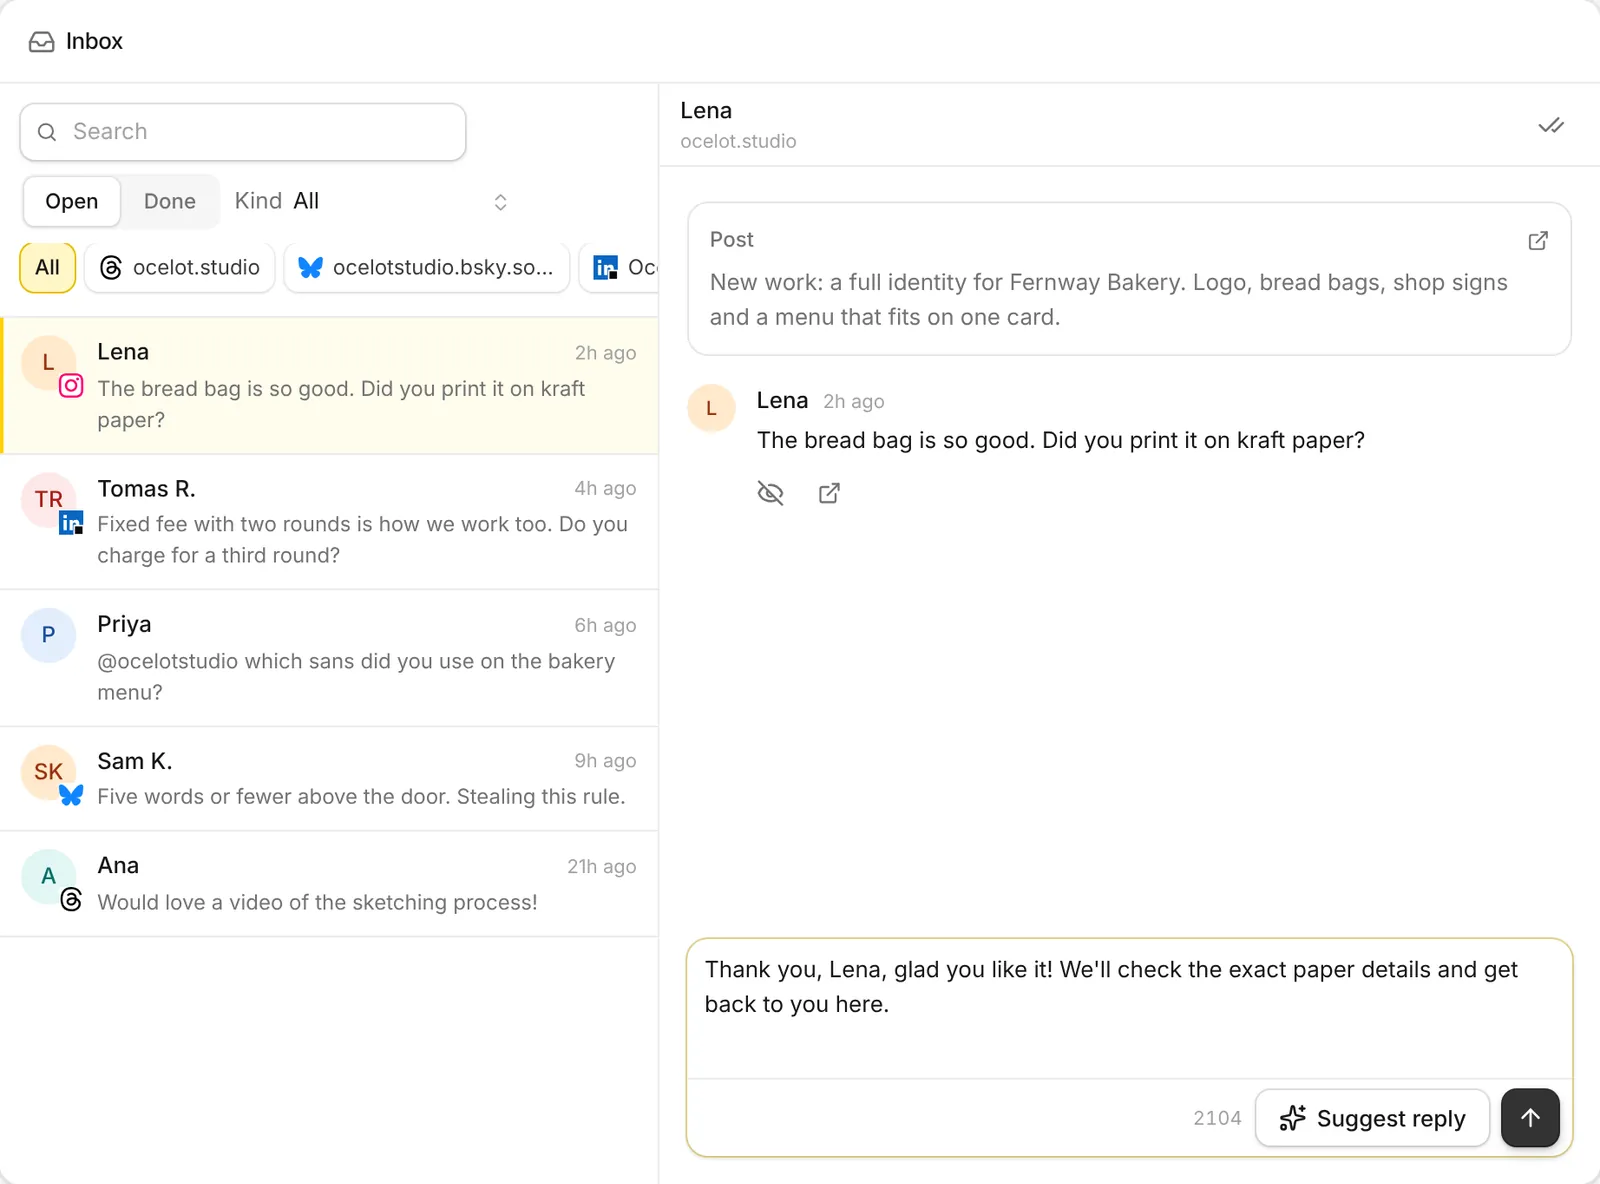
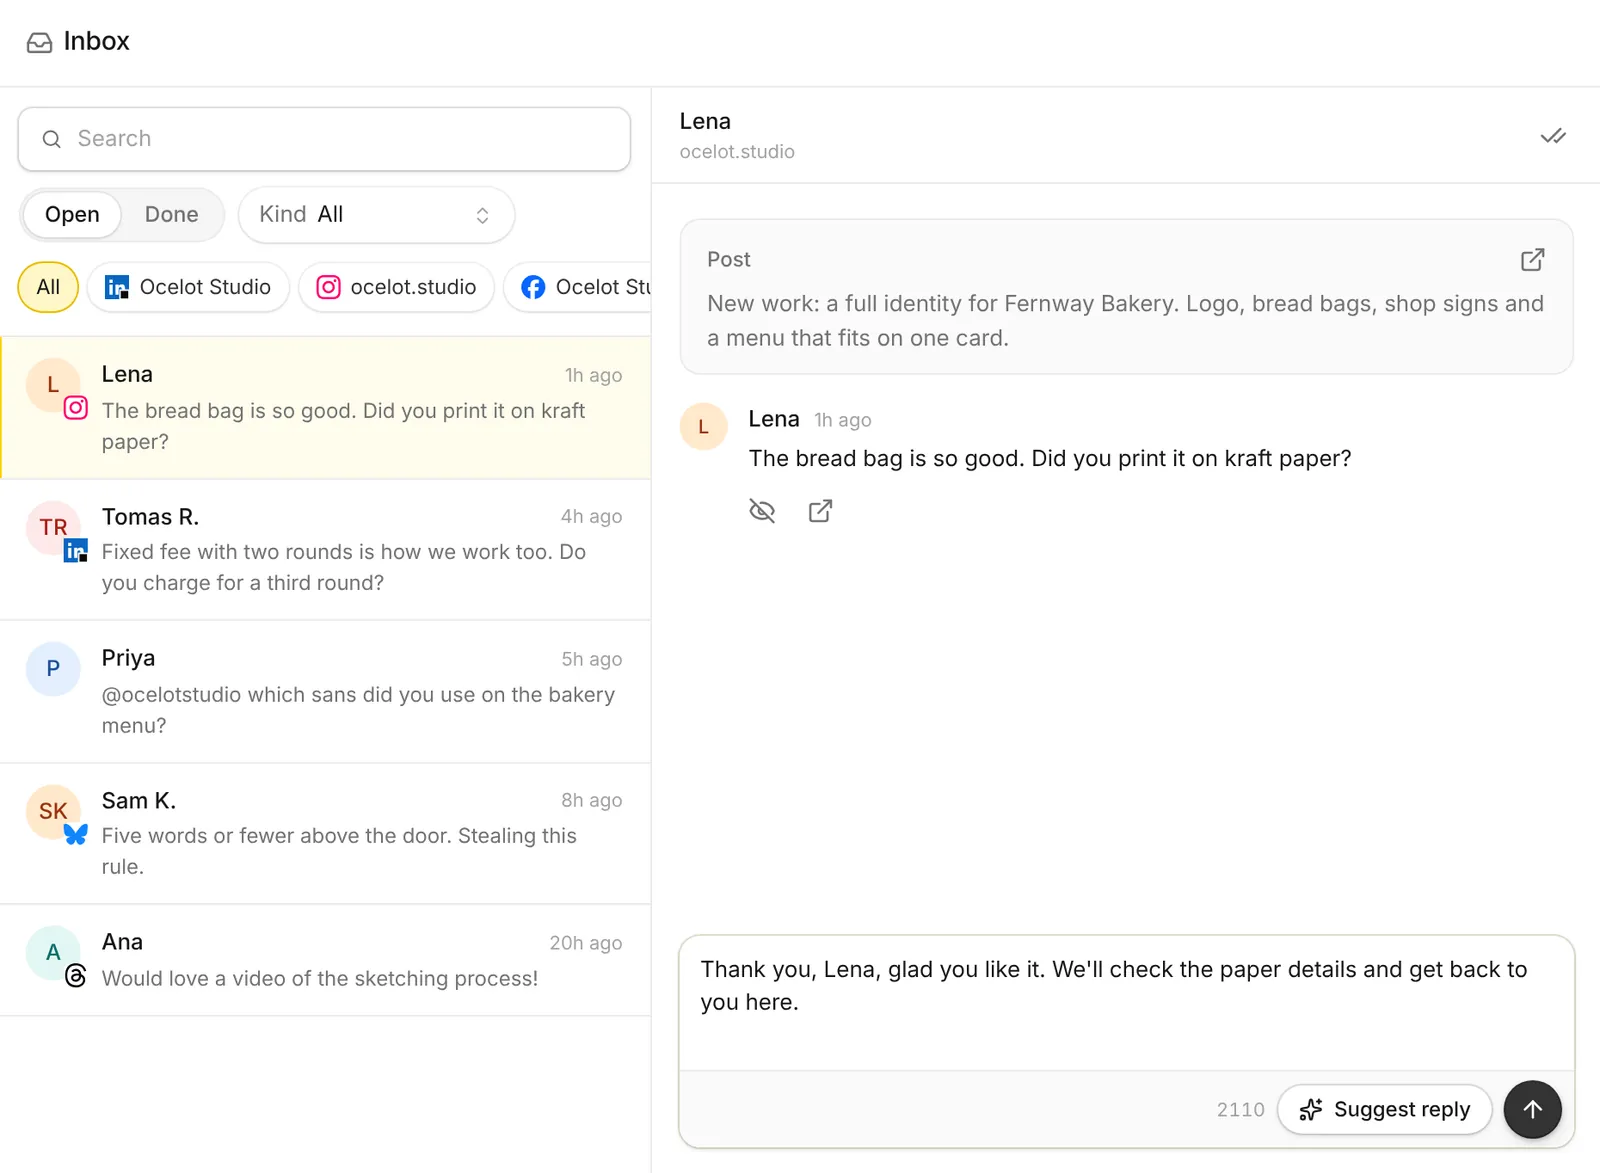
Homepage: retake screenshots from the restyled app, pill buttons
Every product shot (calendar, week, composer, inbox, analytics, agent,
review link, Rewrite, suggested reply, bulk captions) and og.jpg are
retaken from the live app after the Claritia-look restyle, with the same
filenames. Buttons, network chips, the nav and the feature switch are
pills now, matching the app.

Claude-Session: https://claude.ai/code/session_01M8mVGpjHF7VHh9shTnEK92

diff --git a/site/public/index.html b/site/public/index.html
@@ -83,7 +83,7 @@
 <h3>Plan a week in one message</h3>
 <p>Tell the agent what&rsquo;s coming up. It looks at your channels and recent posts, writes the drafts and puts them on your calendar.</p>
 </div>
-<div class="inset"><img src="/img/agent.webp" width="1600" height="1030" loading="lazy" decoding="async" alt="The agent's chat: asked to plan a week of LinkedIn posts for a bakery launch, it saved five drafts for Monday to Friday at 10 AM and noted two days that already had a post"></div>
+<div class="inset"><img src="/img/agent.webp" width="1600" height="1020" loading="lazy" decoding="async" alt="The agent's chat: asked to plan a week of LinkedIn posts for a bakery launch, it saved four drafts at 10 AM and skipped Wednesday, which already had a LinkedIn post waiting for review"></div>
 </article>
 <article class="card big">
 <div class="card-text">
@@ -106,14 +106,14 @@
 <h3>Rewrite in one click</h3>
 <p>Improve a post, fit it to a network, make the first line stronger, change the tone or fix the spelling.</p>
 </div>
-<div class="inset tight"><img src="/img/rewrite.webp" width="940" height="660" loading="lazy" decoding="async" alt="The Rewrite menu in the composer: Improve, Stronger first line, Shorter, Longer, More casual, More professional, Add hashtags, Fix spelling and grammar"></div>
+<div class="inset tight"><img src="/img/rewrite.webp" width="980" height="680" loading="lazy" decoding="async" alt="The Rewrite menu in the composer: Improve, Stronger first line, Shorter, Longer, More casual, More professional, Add hashtags, Fix spelling and grammar"></div>
 </article>
 <article class="card">
 <div class="card-text">
 <h3>Replies you can edit</h3>
 <p>Comments and mentions land in one inbox. Ask for a reply, change a word or two and send it.</p>
 </div>
-<div class="inset tight"><img src="/img/reply.webp" width="1060" height="524" loading="lazy" decoding="async" alt="A Bluesky comment in the inbox with a suggested reply ready to send"></div>
+<div class="inset tight"><img src="/img/reply.webp" width="1096" height="524" loading="lazy" decoding="async" alt="A Bluesky comment in the inbox with a suggested reply ready to send"></div>
 </article>
 <article class="card">
 <div class="card-text">
@@ -151,7 +151,7 @@
 </ul>
 <a class="btn ghost sm" href="https://app.capybaroar.com/signup">Start free</a>
 </div>
-<div class="inset"><img src="/img/calendar-week.webp" width="1600" height="1249" loading="lazy" decoding="async" alt="Week view of the calendar with posts at their times from Monday to Saturday"></div>
+<div class="inset"><img src="/img/calendar-week.webp" width="1600" height="1240" loading="lazy" decoding="async" alt="Week view of the calendar with posts at their times from Monday to Saturday"></div>
 </div>
 <div class="panel" role="tabpanel" id="p-com" aria-labelledby="t-com" tabindex="0">
 <div class="panel-text">
@@ -164,7 +164,7 @@
 </ul>
 <a class="btn ghost sm" href="https://app.capybaroar.com/signup">Start free</a>
 </div>
-<div class="inset"><img src="/img/composer.webp" width="1600" height="1133" loading="lazy" decoding="async" alt="The composer with a post for LinkedIn, Facebook and Instagram, and an Instagram preview on a phone"></div>
+<div class="inset"><img src="/img/composer.webp" width="1600" height="1114" loading="lazy" decoding="async" alt="The composer with a post for LinkedIn, Facebook and Instagram, and an Instagram preview on a phone"></div>
 </div>
 <div class="panel" role="tabpanel" id="p-inb" aria-labelledby="t-inb" tabindex="0">
 <div class="panel-text">
@@ -177,7 +177,7 @@
 </ul>
 <a class="btn ghost sm" href="https://app.capybaroar.com/signup">Start free</a>
 </div>
-<div class="inset"><img src="/img/inbox.webp" width="1600" height="1184" loading="lazy" decoding="async" alt="The inbox with comments from Instagram, LinkedIn, X, Bluesky and Threads, and one thread open with a reply ready"></div>
+<div class="inset"><img src="/img/inbox.webp" width="1600" height="1173" loading="lazy" decoding="async" alt="The inbox with comments from Instagram, LinkedIn, X, Bluesky and Threads, and one thread open with a reply ready"></div>
 </div>
 <div class="panel" role="tabpanel" id="p-ana" aria-labelledby="t-ana" tabindex="0">
 <div class="panel-text">
@@ -190,7 +190,7 @@
 </ul>
 <a class="btn ghost sm" href="https://app.capybaroar.com/signup">Start free</a>
 </div>
-<div class="inset"><img src="/img/analytics.webp" width="1600" height="1520" loading="lazy" decoding="async" alt="Analytics for the last 30 days: posts out, reach, engagements, engagement rate, engagements by day and a heatmap of the best times to post"></div>
+<div class="inset"><img src="/img/analytics.webp" width="1600" height="1506" loading="lazy" decoding="async" alt="Analytics for the last 30 days: posts out, reach, engagements, engagement rate, engagements by day and a heatmap of the best times to post"></div>
 </div>
 </div>
 </div>

diff --git a/site/public/style.css b/site/public/style.css
@@ -1,5 +1,5 @@
 /* Capybaroar's site, shared by every page: the calm style of the app (Omniscient and Claritia's look), with Zite's
-   yellows as the one accent. White pages, raised white cards with a soft ring, 8px buttons, 12px cards, 16px big
+   yellows as the one accent. White pages, raised white cards with a soft ring, pill buttons and chips, 12px cards, 16px big
    frames, a dark gray primary. Yellow is always a fill with ink on it. Homepage sections live in home.css. */
 :root{
   --ink:#171717;--ink-2:#525252;--gray:#737373;--faint:#a3a3a3;--head-2:#8a8a8a;--line:#ebebeb;--frame:#e5e5e5;--canvas:#fafafa;--shell:#f5f5f5;--panel:#fff;
@@ -9,6 +9,7 @@
   --sh-rest:0 4px 4px -12px rgba(0,0,0,.02),0 12px 12px -6px rgba(0,0,0,.02),0 6px 6px -3px rgba(0,0,0,.02),0 3px 3px -1.5px rgba(0,0,0,.02),0 1px 1px -.5px rgba(0,0,0,.04),0 0 0 1px rgba(0,0,0,.06);
   --sh-lift:0 0 0 1px rgba(0,0,0,.06),0 1px 1px -.5px rgba(0,0,0,.04),0 6px 6px -3px rgba(0,0,0,.04),0 12px 12px -6px rgba(0,0,0,.03),0 32px 64px -24px rgba(0,0,0,.16);
   --sh-chip:0 1px 2px rgba(0,0,0,.08),0 0 0 1px rgba(0,0,0,.06);
+  --sh-pill:0 1px 2px rgba(0,0,0,.12),0 0 0 1px rgba(0,0,0,.08);
   --sh-outline:0 0 0 1px rgba(0,0,0,.1),0 1px 3px rgba(0,0,0,.16);
   --sh-primary:0 0 0 1px rgba(0,0,0,.8),0 1px 3px rgba(0,0,0,.4),1px 4px 8px rgba(0,0,0,.12);
   --sh-menu:0 12px 32px -6px rgba(0,0,0,.12),0 0 0 1px rgba(111,107,107,.1),0 1px 3px rgba(63,70,75,.1);
@@ -31,13 +32,13 @@ a{color:inherit}
 .wrap{width:100%;max-width:calc(var(--max) + var(--gutter) * 2);margin:0 auto;padding:0 var(--gutter)}
 .ico{width:16px;height:16px;flex:none}
 
-/* Buttons: one dark gray primary, white ghosts, 8px corners */
-.btn{display:inline-flex;align-items:center;justify-content:center;gap:8px;height:44px;padding:0 18px;border:0;border-radius:8px;font:500 15px/1 var(--font);text-decoration:none;white-space:nowrap;cursor:pointer;background:var(--brand);color:#fff;box-shadow:var(--sh-primary);transition:background-color var(--fast),transform var(--fast)}
+/* Buttons: pills, like the app. One dark gray primary, white ghosts */
+.btn{display:inline-flex;align-items:center;justify-content:center;gap:8px;height:44px;padding:0 20px;border:0;border-radius:999px;font:500 15px/1 var(--font);text-decoration:none;white-space:nowrap;cursor:pointer;background:var(--brand);color:#fff;box-shadow:var(--sh-primary);transition:background-color var(--fast),transform var(--fast)}
 .btn:hover{background:var(--brand-h)}
 .btn:active{transform:scale(.97)}
-.btn.ghost{background:var(--panel);color:var(--ink);box-shadow:var(--sh-outline)}
+.btn.ghost{background:var(--panel);color:var(--ink);box-shadow:var(--sh-pill)}
 .btn.ghost:hover{background:var(--canvas)}
-.btn.sm{height:34px;padding:0 14px;font-size:14px}
+.btn.sm{height:34px;padding:0 16px;font-size:14px}
 .btn .ico{width:16px;height:16px}
 
 /* A state or a label: a 6px tag, soft fill, deep text */
@@ -52,11 +53,11 @@ a{color:inherit}
 .logo{display:flex;align-items:center;gap:8px;font-weight:600;font-size:16px;letter-spacing:-.01em;text-decoration:none;color:var(--ink)}
 .logo img{width:30px;height:30px}
 .nav-links{display:flex;align-items:center;gap:4px;margin:0 auto}
-.nav-links a,.nav-login{display:inline-flex;align-items:center;height:34px;padding:0 12px;border-radius:8px;font-size:14px;font-weight:500;color:var(--ink-2);text-decoration:none;transition:background-color var(--fast),color var(--fast)}
+.nav-links a,.nav-login{display:inline-flex;align-items:center;height:34px;padding:0 12px;border-radius:999px;font-size:14px;font-weight:500;color:var(--ink-2);text-decoration:none;transition:background-color var(--fast),color var(--fast)}
 .nav-links a:hover,.nav-login:hover{background:var(--shell);color:var(--ink)}
 .nav-end{display:flex;align-items:center;gap:6px}
 .nav-menu{display:none;position:relative}
-.nav-menu summary{display:flex;align-items:center;justify-content:center;width:38px;height:34px;border-radius:8px;cursor:pointer;list-style:none;box-shadow:var(--sh-outline);background:var(--panel)}
+.nav-menu summary{display:flex;align-items:center;justify-content:center;width:38px;height:34px;border-radius:999px;cursor:pointer;list-style:none;box-shadow:var(--sh-pill);background:var(--panel)}
 .nav-menu summary::-webkit-details-marker{display:none}
 .nav-menu summary .ico{width:18px;height:18px}
 .nav-sheet{position:absolute;right:0;top:44px;display:flex;flex-direction:column;min-width:200px;padding:6px;border-radius:12px;background:var(--panel);box-shadow:var(--sh-menu)}

diff --git a/site/public/home.css b/site/public/home.css
@@ -28,7 +28,7 @@ h1 span,h2 span{color:var(--head-2)}
 .nets{padding:56px 0 24px!important}
 .nets-title{text-align:center;font-size:14px;font-weight:500;color:var(--gray);margin-bottom:24px}
 .net-list{list-style:none;display:flex;flex-wrap:wrap;justify-content:center;gap:10px}
-.net-list li{display:flex;align-items:center;gap:8px;height:40px;padding:0 14px 0 10px;border-radius:8px;background:var(--panel);box-shadow:var(--sh-chip);font-size:14px;font-weight:500}
+.net-list li{display:flex;align-items:center;gap:8px;height:40px;padding:0 16px 0 12px;border-radius:999px;background:var(--panel);box-shadow:var(--sh-pill);font-size:14px;font-weight:500}
 .net-list svg{width:20px;height:20px}
 
 /* Cards and insets */
@@ -58,11 +58,11 @@ h1 span,h2 span{color:var(--head-2)}
 .tools li{height:26px;display:inline-flex;align-items:center;padding:0 8px;border-radius:6px;background:var(--panel);box-shadow:var(--sh-chip);font:12px/1 var(--mono);color:var(--ink-2)}
 
 /* Features: a switch over one big card */
-.tabs{display:flex;gap:2px;width:max-content;max-width:100%;margin:0 auto 16px;padding:3px;border-radius:10px;background:var(--shell);overflow-x:auto;scrollbar-width:none}
+.tabs{display:flex;gap:2px;width:max-content;max-width:100%;margin:0 auto 16px;padding:3px;border-radius:999px;background:var(--shell);overflow-x:auto;scrollbar-width:none}
 .tabs::-webkit-scrollbar{display:none}
-.tabs [role=tab]{display:inline-flex;align-items:center;gap:8px;height:38px;padding:0 16px;border:0;border-radius:8px;background:none;font:500 14px/1 var(--font);color:var(--gray);cursor:pointer;white-space:nowrap;transition:background-color var(--fast),color var(--fast),box-shadow var(--fast)}
+.tabs [role=tab]{display:inline-flex;align-items:center;gap:8px;height:38px;padding:0 18px;border:0;border-radius:999px;background:none;font:500 14px/1 var(--font);color:var(--gray);cursor:pointer;white-space:nowrap;transition:background-color var(--fast),color var(--fast),box-shadow var(--fast)}
 .tabs [role=tab]:hover{color:var(--ink)}
-.tabs [role=tab][aria-selected=true]{background:var(--panel);color:var(--ink);box-shadow:var(--sh-chip)}
+.tabs [role=tab][aria-selected=true]{background:var(--panel);color:var(--ink);box-shadow:var(--sh-pill)}
 .show{border-radius:16px;background:var(--panel);box-shadow:var(--sh-lift);overflow:hidden}
 .panel[hidden]{display:none}
 .panel{display:grid;grid-template-columns:minmax(0,340px) minmax(0,1fr);gap:8px;padding:12px}
@@ -158,7 +158,7 @@ h1 span,h2 span{color:var(--head-2)}
   .shot{margin-top:40px;border-radius:12px}
   .nets{padding:40px 0 8px!important}
   .net-list{gap:8px}
-  .net-list li{height:36px;padding:0 12px 0 8px;font-size:13px}
+  .net-list li{height:36px;padding:0 14px 0 10px;font-size:13px}
   .net-list svg{width:18px;height:18px}
   .bento{grid-template-columns:1fr}
   .bento .card,.bento .card.big,.bento .card:last-child{grid-column:auto}
